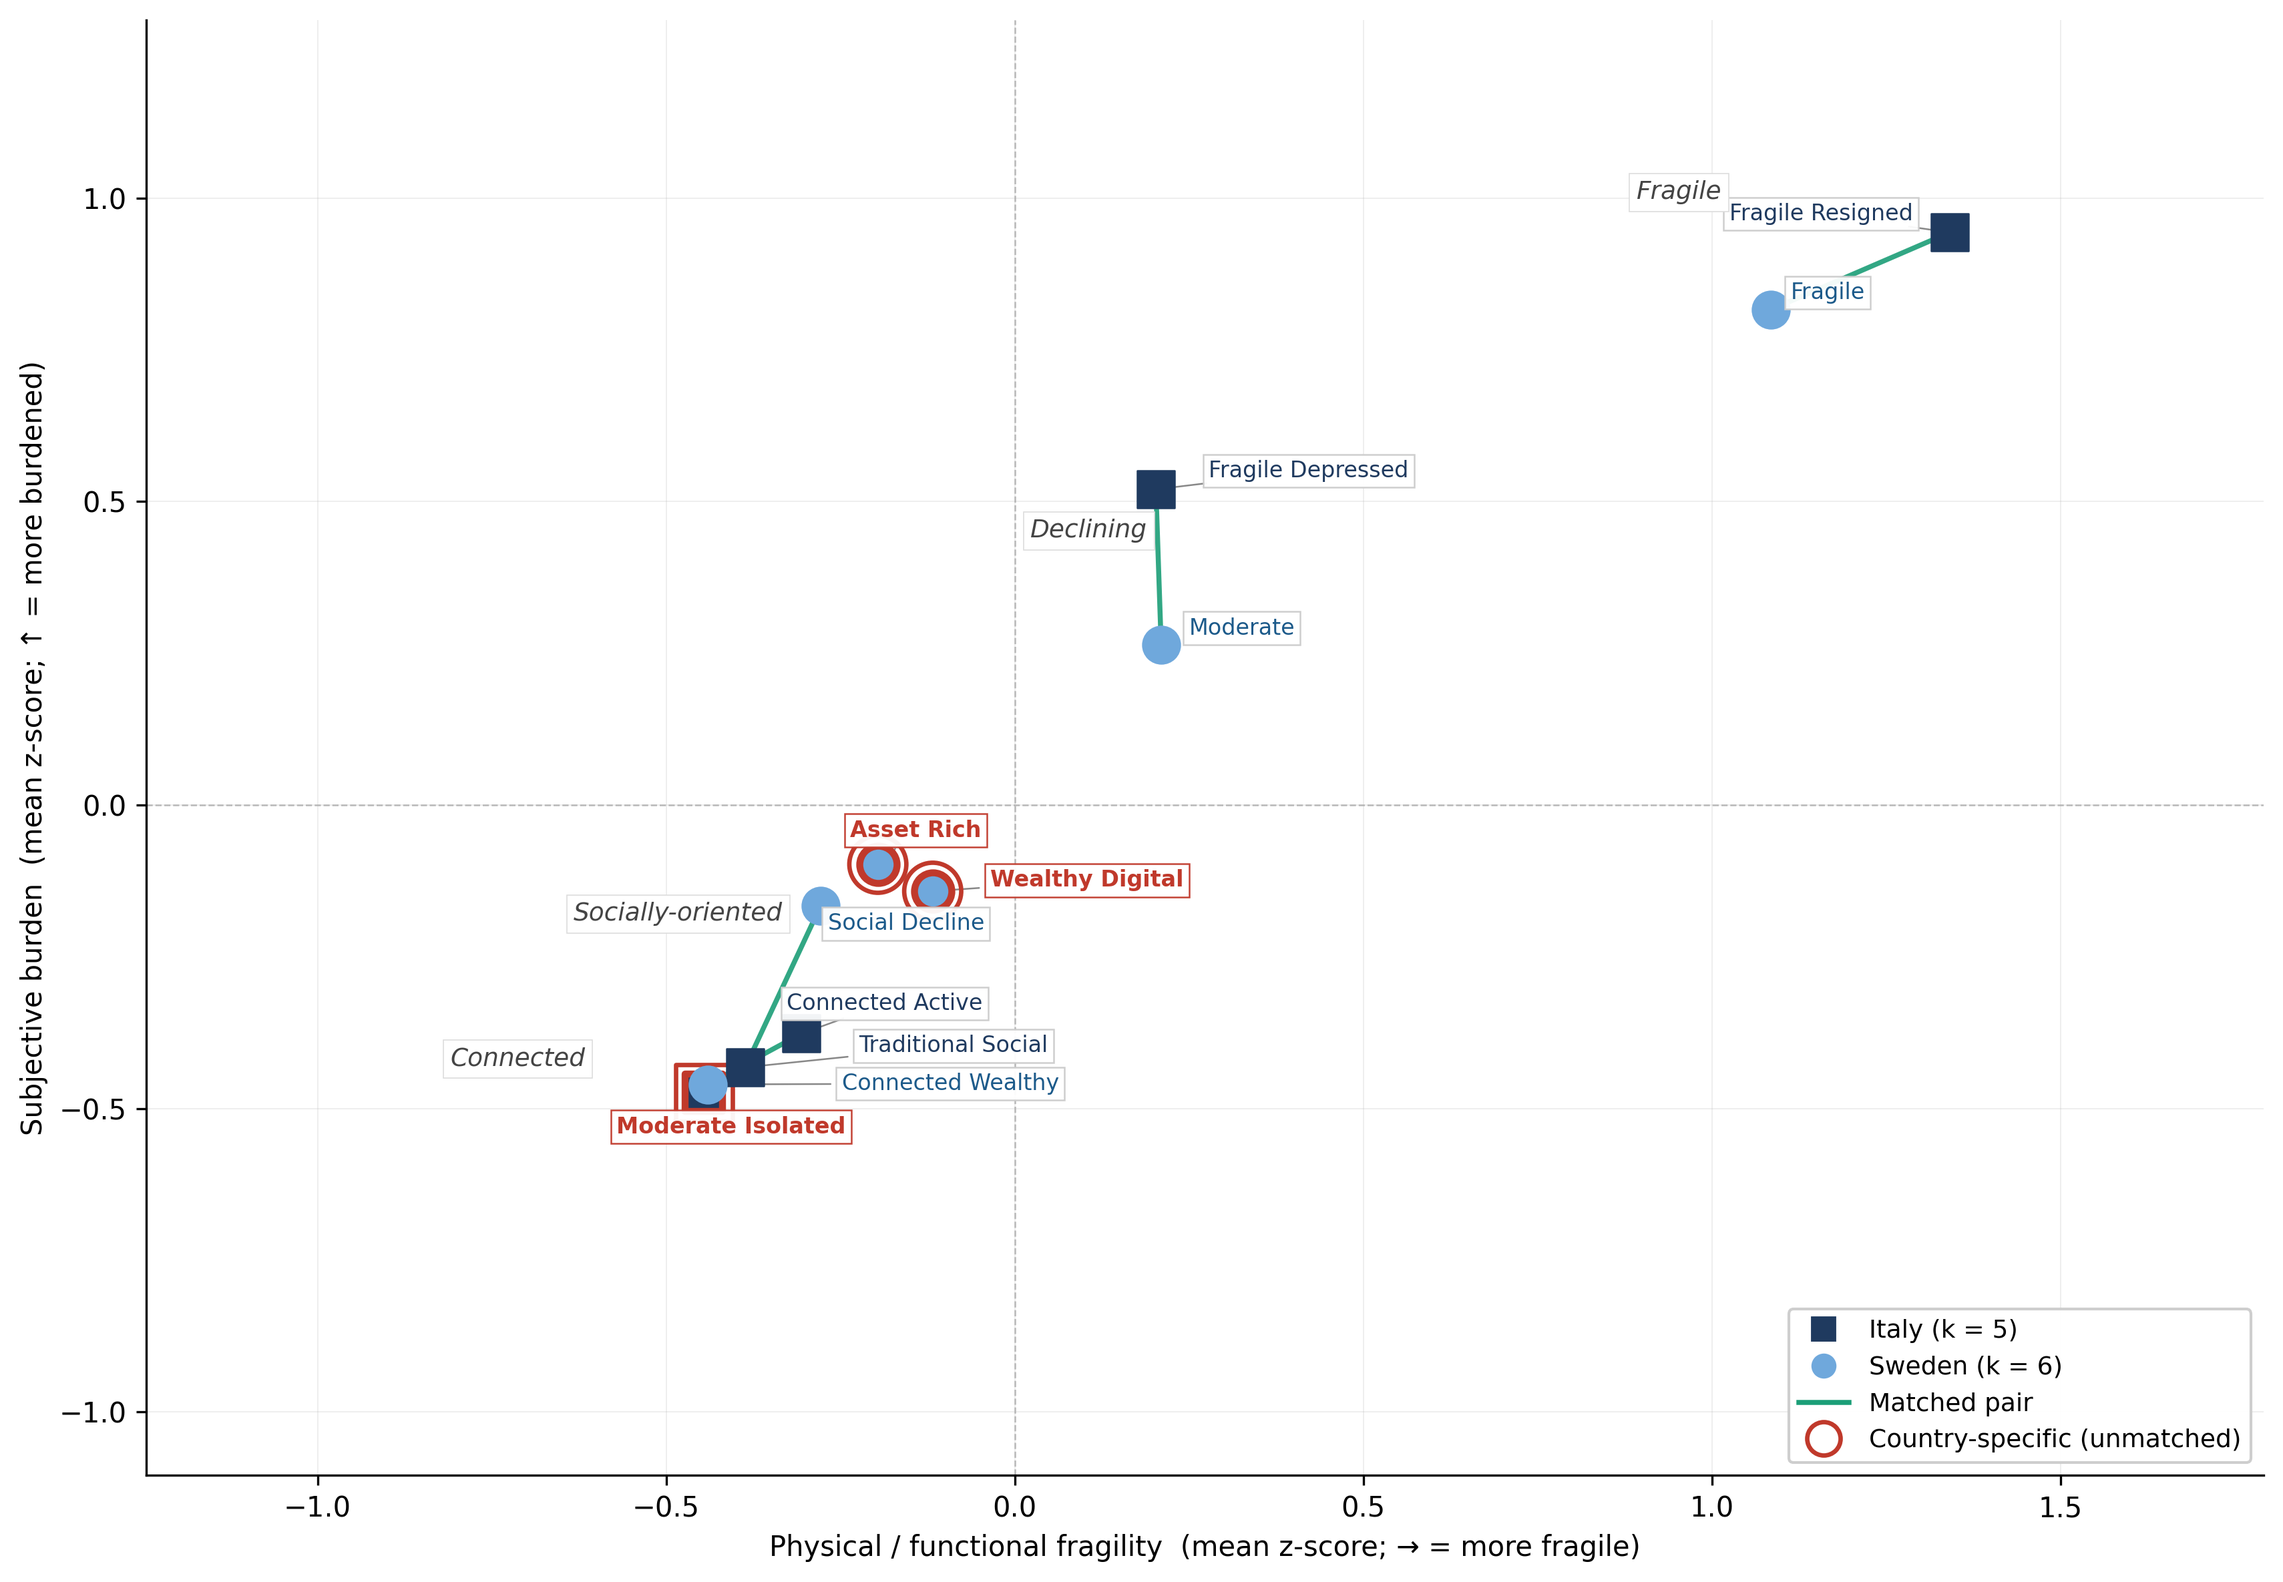
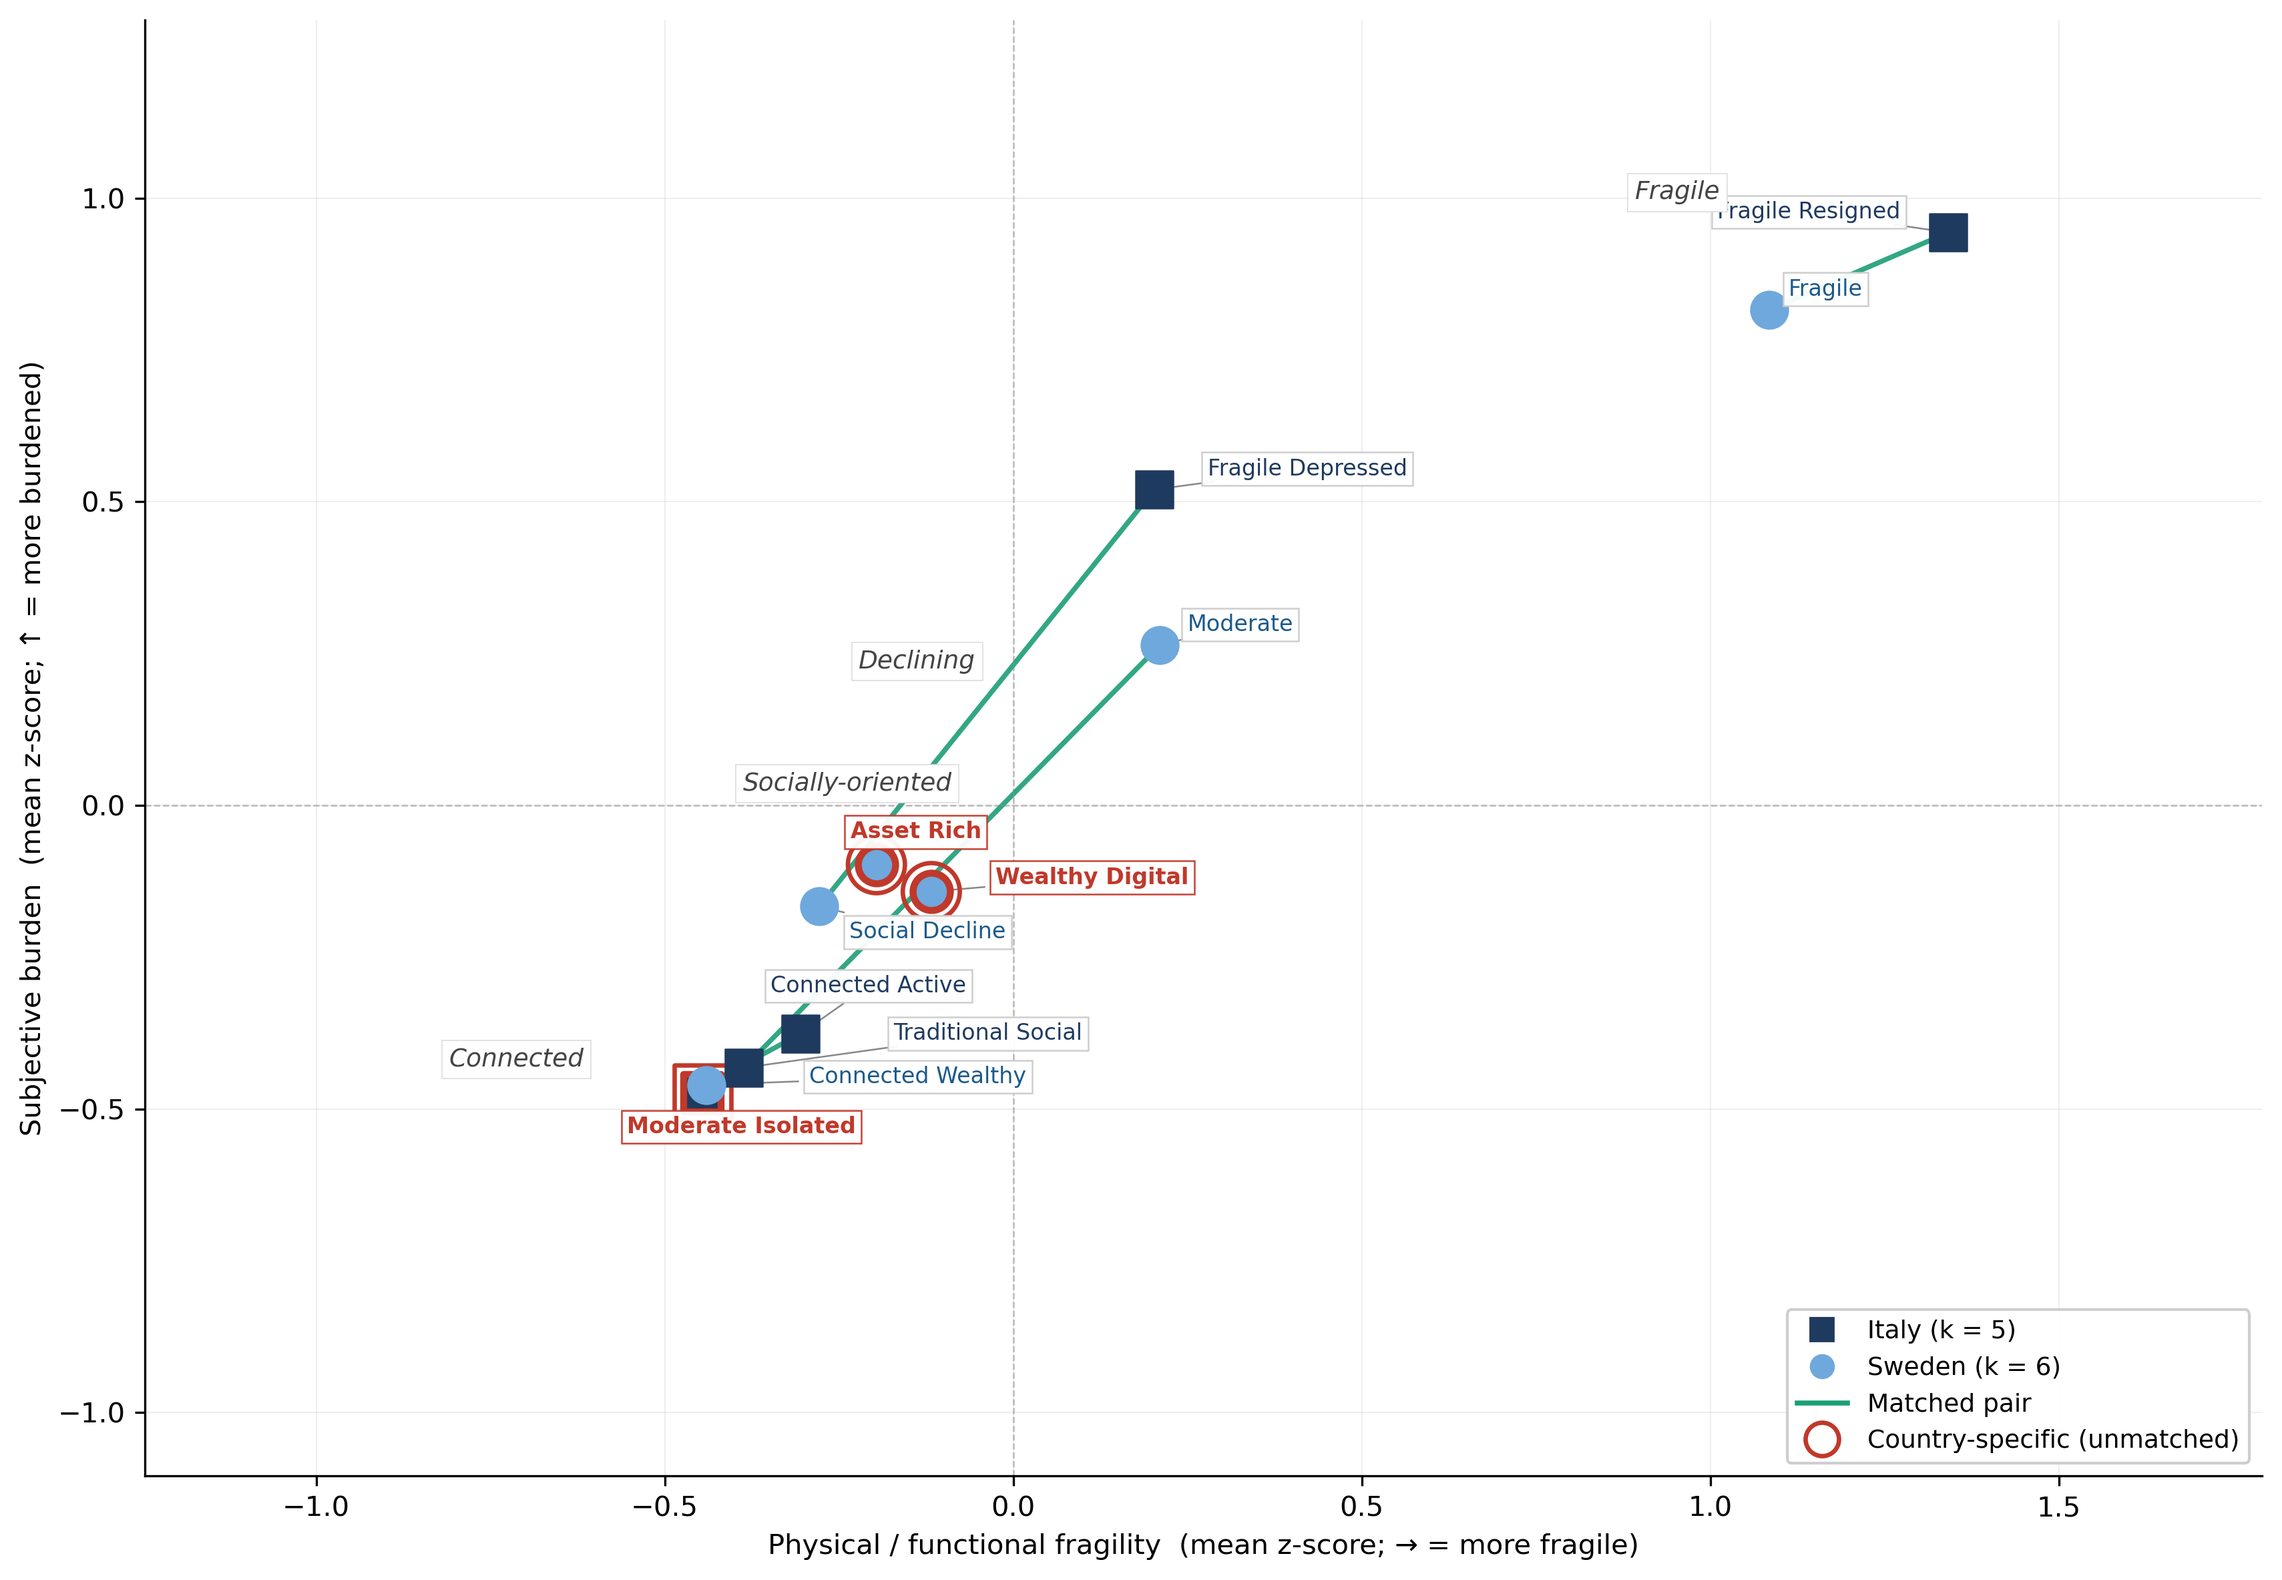
fix: regenerate Tab 4.2 multinomial ORs from step30 CSV + correct Fig 6.1 matched-pair connectors

diff --git a/Invisible_Profiles_LaTeX_Overleaf/chapters/chapter4.tex b/Invisible_Profiles_LaTeX_Overleaf/chapters/chapter4.tex
@@ -163,30 +163,30 @@ To quantify how much of the typological structure recovered in \S\ref{sec:ch4-pr
 Predictor & Fragile Resigned & Fragile Depressed & Traditional Social & Connected Active \\
 \midrule
 Age (per year from 75)
-  & 1.05$^{***}$ [1.03, 1.08]
-  & 1.15$^{***}$ [1.12, 1.18]
-  & 0.96$^{***}$ [0.94, 0.98]
-  & 0.98 [0.95, 1.01] \\
+  & 1.20$^{***}$ [1.17, 1.23]
+  & 1.09$^{***}$ [1.07, 1.12]
+  & 1.02 [0.99, 1.05]
+  & 1.04$^{***}$ [1.02, 1.06] \\
 Female (vs male)
-  & 1.13 [0.87, 1.48]
-  & 1.48$^{*}$ [1.05, 2.08]
-  & 0.80 [0.62, 1.03]
-  & 0.44$^{***}$ [0.30, 0.63] \\
+  & 1.86$^{***}$ [1.33, 2.60]
+  & 1.42$^{**}$ [1.09, 1.84]
+  & 0.54$^{**}$ [0.37, 0.80]
+  & 1.25 [0.97, 1.62] \\
 Years of education (per year from 8)
-  & 0.82$^{***}$ [0.80, 0.85]
-  & 0.83$^{***}$ [0.80, 0.87]
-  & 0.88$^{***}$ [0.86, 0.91]
-  & 0.97 [0.93, 1.01] \\
+  & 0.94$^{**}$ [0.90, 0.98]
+  & 0.93$^{***}$ [0.90, 0.96]
+  & 1.10$^{***}$ [1.06, 1.15]
+  & 1.13$^{***}$ [1.10, 1.17] \\
 Living alone (vs partnered)
-  & 3.13$^{***}$ [2.27, 4.31]
-  & 2.64$^{***}$ [1.81, 3.86]
-  & 1.40 [0.99, 1.96]
-  & 1.84$^{*}$ [1.15, 2.94] \\
+  & 1.89$^{***}$ [1.32, 2.71]
+  & 2.24$^{***}$ [1.67, 3.01]
+  & 1.32 [0.83, 2.09]
+  & 0.72 [0.51, 1.01] \\
 Homeowner (vs renter)
-  & 0.22$^{***}$ [0.12, 0.41]
-  & 0.13$^{***}$ [0.07, 0.25]
-  & 0.28$^{***}$ [0.15, 0.51]
-  & 0.48 [0.21, 1.10] \\
+  & 0.47$^{**}$ [0.30, 0.75]
+  & 0.80 [0.54, 1.18]
+  & 1.71 [0.84, 3.49]
+  & 3.55$^{***}$ [1.95, 6.46] \\
 \midrule
 $n$ in cluster & 313 & 607 & 170 & 550 \\
 \bottomrule
@@ -200,7 +200,7 @@ $n$ in cluster & 313 & 607 & 170 & 550 \\
 
 The likelihood-ratio test rejects the null of demographic non-association at a very large margin: $\chi^{2}(20) = 763.7$, $p < .001$. The fit measures, however, locate the bulk of the typological variability outside the demographic input set: Nagelkerke pseudo-$R^{2} = 0.309$, indicating that approximately one third of the cluster distribution is captured by age, gender, education, living arrangement and homeownership combined, with the remaining two thirds reflecting the conceptual structure of the segmentation: factor-analytic dimensions of physical health, subjective burden, digital and social engagement (\S\ref{sec:ch3-fa}, \S\ref{sec:ch4-profile-descriptions}). The typology is therefore demographically structured but not demographically reducible.
 
-The pattern of odds ratios is consistent with the substantive descriptions of \S\ref{sec:ch4-profile-descriptions}, with age and homeownership the strongest single predictors of cluster membership relative to Moderate Isolated.
+The pattern of odds ratios is consistent with the substantive descriptions of \S\ref{sec:ch4-profile-descriptions}: education separates every profile from Moderate Isolated (lower for the two fragile profiles, higher for Traditional Social and Connected Active), older age and living alone distinguish the fragile profiles (living-alone odds of 1.89 and 2.24), and homeownership sharply marks the high-resource Connected Active profile (odds ratio 3.55 relative to Moderate Isolated).
 
 The regression is descriptive rather than causal: it bounds the demographic explainability of the partition from above, and the residual variability ($1 - R^{2}_{N} \approx 0.69$) is the portion of the cluster signal that originates in the analytical input variables themselves and that the typology of \S\ref{sec:ch4-profile-descriptions} is designed to make legible.
 
@@ -254,7 +254,7 @@ The substantively important reading is that the Isolation Paradox is robust on t
 \begin{figure}[H]
   \centering
   \includegraphics[width=0.95\linewidth]{figures/04_italy/fig_healthcare_italy.png}
-  \caption[Healthcare utilisation, Italian archetypes]{Healthcare utilisation across the five Italian archetypes. Cluster means on four indicators over the twelve months preceding interview: doctor visits per year, specialist contacts per year, forgone care for cost (\%), and hospital nights per year. The preventive (dental) channel is not displayed here; it is reported in the regression-adjusted analysis of \S\ref{sec:ch4-isolation-empirical} and Table~\ref{tab:ch4-isolation-regression}.}
+  \caption[Healthcare utilisation, Italian archetypes]{Healthcare utilisation across the five Italian archetypes. Cluster means on four indicators over the twelve months preceding interview: doctor visits per year, specialist contacts per year, forgone care for cost (\%), and hospital nights per year. The preventive (dental) channel is not displayed here; it is reported in the regression-adjusted analysis of \S\ref{sec:ch4-isolation-healthcare} and Table~\ref{tab:ch4-isolation-regression}.}
   \label{fig:ch4-healthcare}
 \end{figure}
 

diff --git a/scripts/make_fig_6_1.py b/scripts/make_fig_6_1.py
@@ -64,9 +64,9 @@ def main():
     # Matched pairs by diagnostic correspondence (from §6.2 / Table 6.1)
     pairs = [
         ("Fragile",          "Fragile Resigned",   "Fragile"),
-        ("Declining",        "Fragile Depressed",  "Moderate"),
+        ("Declining",        "Fragile Depressed",  "Social Decline"),
         ("Connected",        "Connected Active",   "Connected Wealthy"),
-        ("Socially-oriented", "Traditional Social", "Social Decline"),
+        ("Socially-oriented", "Traditional Social", "Moderate"),
     ]
     # Unmatched (country-specific) profiles
     unmatched_it = {"Moderate Isolated"}
